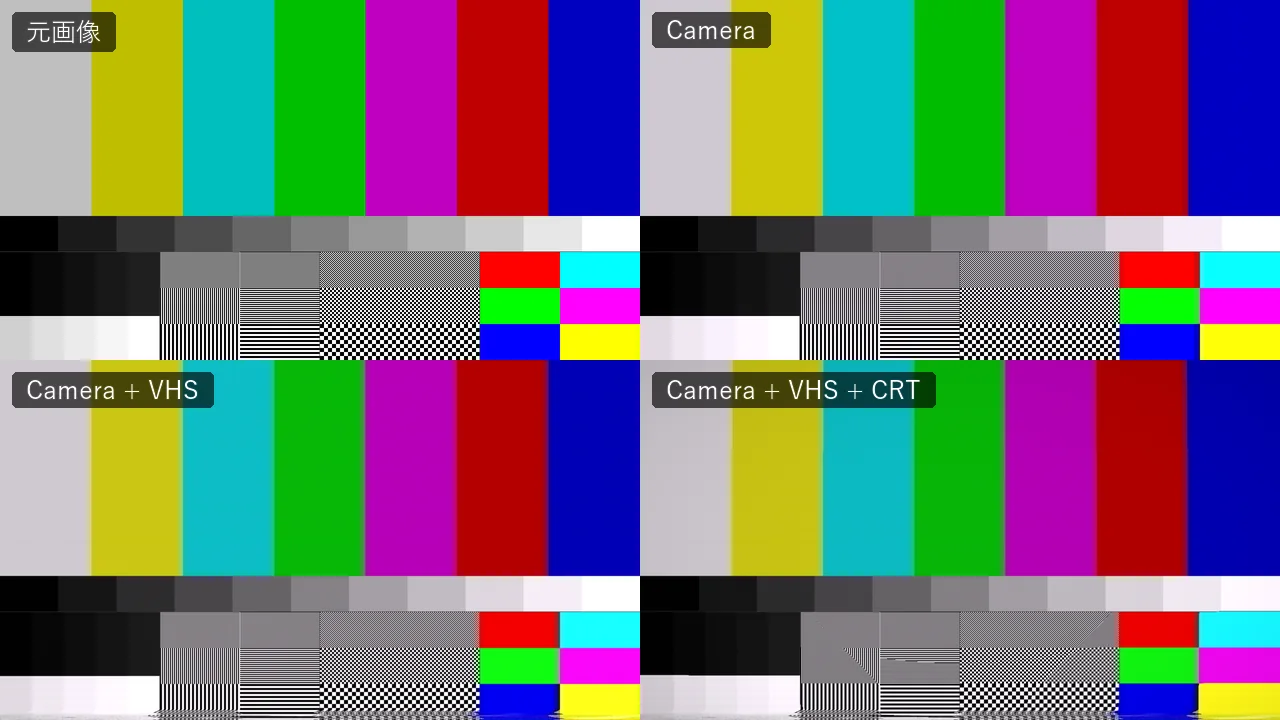
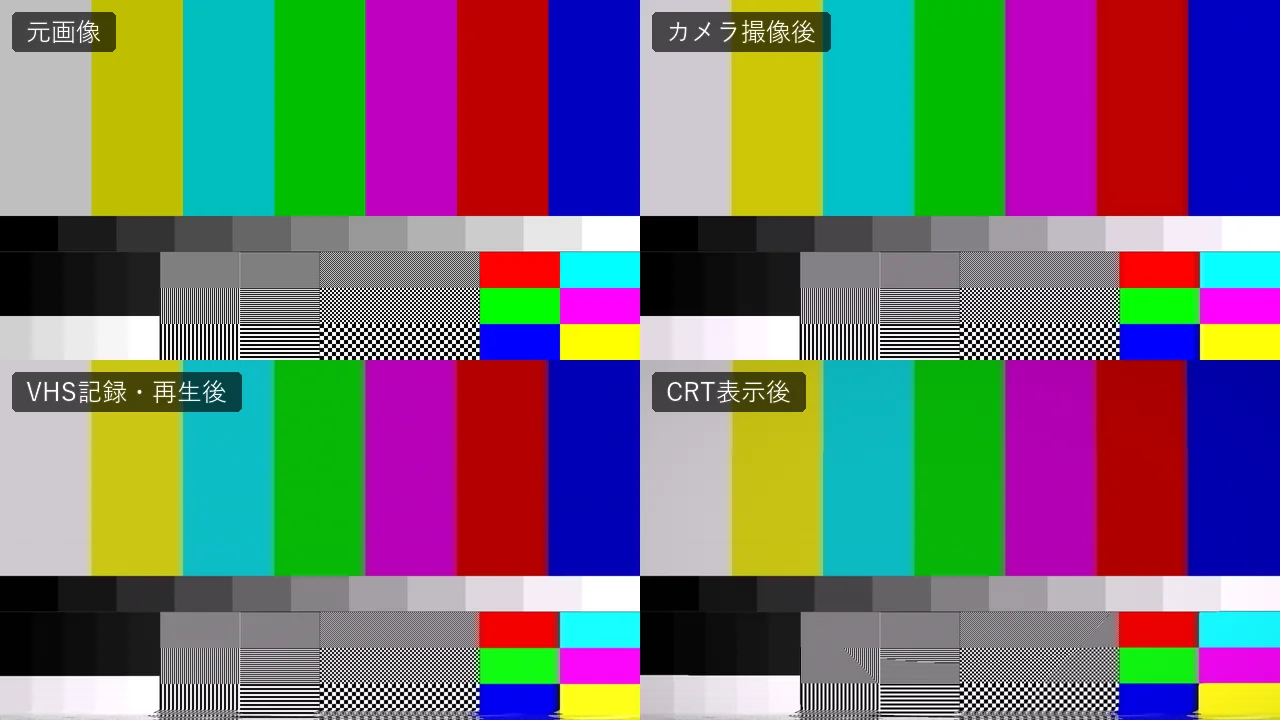
Clarify VHS processing flow

Changed region(s): [[0.5, 0.5194, 0.75, 0.5806], [0.5, 0.0, 0.6562, 0.0917], [0.0, 0.5194, 0.1875, 0.5806]]

diff --git a/acm/src/pages/VhsSimulatorPage.vue b/acm/src/pages/VhsSimulatorPage.vue
@@ -641,17 +641,18 @@ onUnmounted(() => {
 
           <section id="pipeline" class="doc-section">
             <div class="section-heading"><span>03</span><div><p>PIPELINE</p><h2>処理の流れ</h2></div></div>
-            <div class="pipeline">
-              <div><b>1</b><strong>CAMERA</strong><span>解像感・色・暗部</span></div><i>→</i>
-              <div><b>2</b><strong>VHS SIGNAL</strong><span>帯域・ノイズ・走行</span></div><i>→</i>
-              <div><b>3</b><strong>CRT DISPLAY</strong><span>走査線・発光・曲率</span></div><i>→</i>
-              <div><b>4</b><strong>FINAL MIX</strong><span>元映像との最終合成</span></div>
-            </div>
+            <p>元映像へ、カメラ撮像、VHSの記録・再生、CRT表示の順で質感を重ねます。最後に元映像との混ざり具合を決めます。</p>
+            <ol class="pipeline">
+              <li><b>1</b><div><strong>家庭用カメラの画にする</strong><small>CAMERA</small></div><span>解像感を落とし、色にじみ、輪郭の硬さ、暗部ノイズを加えます。</span></li>
+              <li><b>2</b><div><strong>VHSへ記録・再生する</strong><small>VHS TAPE</small></div><span>VHS特有のぼけ、色ずれ、テープノイズ、走行の乱れを加えます。</span></li>
+              <li><b>3</b><div><strong>ブラウン管に表示する</strong><small>CRT DISPLAY</small></div><span>走査線、発光、色の格子、画面の丸みを加えます。</span></li>
+              <li><b>4</b><div><strong>効果の濃さを決める</strong><small>FINAL MIX</small></div><span>処理後の映像を元映像と混ぜ、最終的なかかり具合を整えます。</span></li>
+            </ol>
             <figure class="doc-shot">
-              <a href="/images/vhs-simulator/screenshots/pipeline-camera-vhs-crt.webp" target="_blank" rel="noopener" aria-label="Camera、VHS、CRTの処理段階比較を原寸で開く">
-                <img src="/images/vhs-simulator/screenshots/pipeline-camera-vhs-crt.webp" alt="元画像、Camera、CameraとVHS、CameraとVHSとCRTの4段階比較" width="1280" height="720" loading="lazy" />
+              <a href="/images/vhs-simulator/screenshots/pipeline-camera-vhs-crt.webp" target="_blank" rel="noopener" aria-label="カメラ撮像、VHS記録・再生、CRT表示の処理段階比較を原寸で開く">
+                <img src="/images/vhs-simulator/screenshots/pipeline-camera-vhs-crt.webp" alt="元画像、カメラ撮像後、VHS記録・再生後、CRT表示後の4段階比較" width="1280" height="720" loading="lazy" />
               </a>
-              <figcaption>元画像からCamera、VHS、CRTへ処理を重ねた変化。細線、色境界、画面下端で各段階の違いを確認できます。</figcaption>
+              <figcaption>元画像へカメラ撮像、VHS記録・再生、CRT表示を順に重ねた変化。細線、色境界、画面下端で各段階の違いを確認できます。</figcaption>
             </figure>
           </section>
 
@@ -991,14 +992,14 @@ button { color: inherit; }
 .status { padding: 5px 10px; border: 1px solid #30444d; border-radius: 999px; color: #8799a1; font-size: .6rem; }
 .status.ok { border-color: #397667; color: #80c6b0; }
 .status.caution { border-color: #786a39; color: #d1bb68; }
-.pipeline { display: grid; align-items: stretch; grid-template-columns: repeat(7, auto); }
-.pipeline > div { display: grid; min-width: 0; gap: 4px; padding: 15px 13px; border: 1px solid var(--vhs-line); background: #091015; }
-.pipeline b { color: #3c5b65; font-family: ui-monospace, monospace; font-size: .52rem; }
-.pipeline strong { color: #dce7ea; font-size: .68rem; }
-.pipeline span { color: #71828a; font-size: .55rem; line-height: 1.5; }
-.pipeline > i { display: flex; min-width: 28px; align-items: center; justify-content: center; padding: 0 5px; color: #6b8c95; font-size: 0; font-style: normal; }
-.pipeline > i::before { width: 20px; height: 2px; background: currentColor; content: ''; }
-.pipeline > i::after { width: 0; height: 0; margin-left: -1px; border-top: 5px solid transparent; border-bottom: 5px solid transparent; border-left: 8px solid currentColor; content: ''; }
+.pipeline { display: grid; gap: 10px; margin: 20px 0 0; padding: 0; list-style: none; }
+.pipeline > li { position: relative; display: grid; min-width: 0; align-items: center; gap: 14px; padding: 17px 18px; border: 1px solid var(--vhs-line); background: #091015; grid-template-columns: 32px minmax(190px, .8fr) minmax(0, 1.4fr); }
+.pipeline > li:not(:last-child)::after { position: absolute; z-index: 2; bottom: -10px; left: 28px; width: 0; height: 0; border-top: 7px solid #6b8c95; border-right: 5px solid transparent; border-left: 5px solid transparent; content: ''; }
+.pipeline b { color: var(--vhs-cyan); font-family: ui-monospace, monospace; font-size: .78rem; }
+.pipeline div { display: grid; min-width: 0; gap: 2px; }
+.pipeline strong { color: #dce7ea; font-size: .78rem; line-height: 1.45; }
+.pipeline small { color: #69808a; font-size: .52rem; font-weight: 700; letter-spacing: .12em; }
+.pipeline span { color: #8fa1a8; font-size: .65rem; line-height: 1.7; }
 .page-intro { max-width: 720px; margin-bottom: 52px; padding: 32px 0 34px; border-bottom: 1px solid var(--vhs-line); }
 .page-intro > p { display: none; }
 .page-intro h1 { margin: 0 0 14px; color: #edf3f4; font-size: clamp(2.1rem, 4vw, 3rem); letter-spacing: -.035em; line-height: 1.12; }
@@ -1133,8 +1134,9 @@ button { color: inherit; }
 .callout strong { font-size: .9rem; }
 .callout p { color: #bdc9cd; font-size: .88rem; line-height: 1.8; }
 .status { color: #bac7cb; font-size: .76rem; }
-.pipeline b { color: #79919a; font-size: .66rem; }
+.pipeline b { color: var(--vhs-cyan); font-size: .8rem; }
 .pipeline strong { font-size: .82rem; }
+.pipeline small { font-size: .62rem; }
 .pipeline span { color: #a7b7bd; font-size: .72rem; line-height: 1.6; }
 .page-intro > span { color: #b7c5ca; font-size: .94rem; line-height: 1.7; }
 .steps li > b { color: #78929b; font-size: .78rem; }
@@ -1182,8 +1184,7 @@ button { color: inherit; }
   .docs-sidebar.open { transform: translateX(0); }
   .docs-content { padding: 42px 28px 60px; }
   .hero-section { min-height: 0; }
-  .pipeline { gap: 8px; grid-template-columns: repeat(2, minmax(0, 1fr)); }
-  .pipeline > i { display: none; }
+  .pipeline > li { grid-template-columns: 32px minmax(170px, .8fr) minmax(0, 1fr); }
 }
 
 @media (max-width: 600px) {
@@ -1199,7 +1200,9 @@ button { color: inherit; }
   .hero-section { padding: 44px 0 58px; }
   .hero-copy h1 { font-size: clamp(2rem, 12vw, 2.5rem); line-height: 1.08; white-space: normal; }
   .quality-comparison { grid-template-columns: 1fr; }
-  .pipeline { gap: 6px; grid-template-columns: 1fr; }
+  .pipeline > li { align-items: start; gap: 4px 12px; padding: 15px; grid-template-columns: 28px minmax(0, 1fr); }
+  .pipeline > li span { grid-column: 2; }
+  .pipeline > li:not(:last-child)::after { left: 24px; }
   .page-intro h1 { font-size: 2.15rem; }
   .preset-grid { grid-template-columns: 1fr; }
   .parameter-card { gap: 14px; grid-template-columns: 1fr; }
